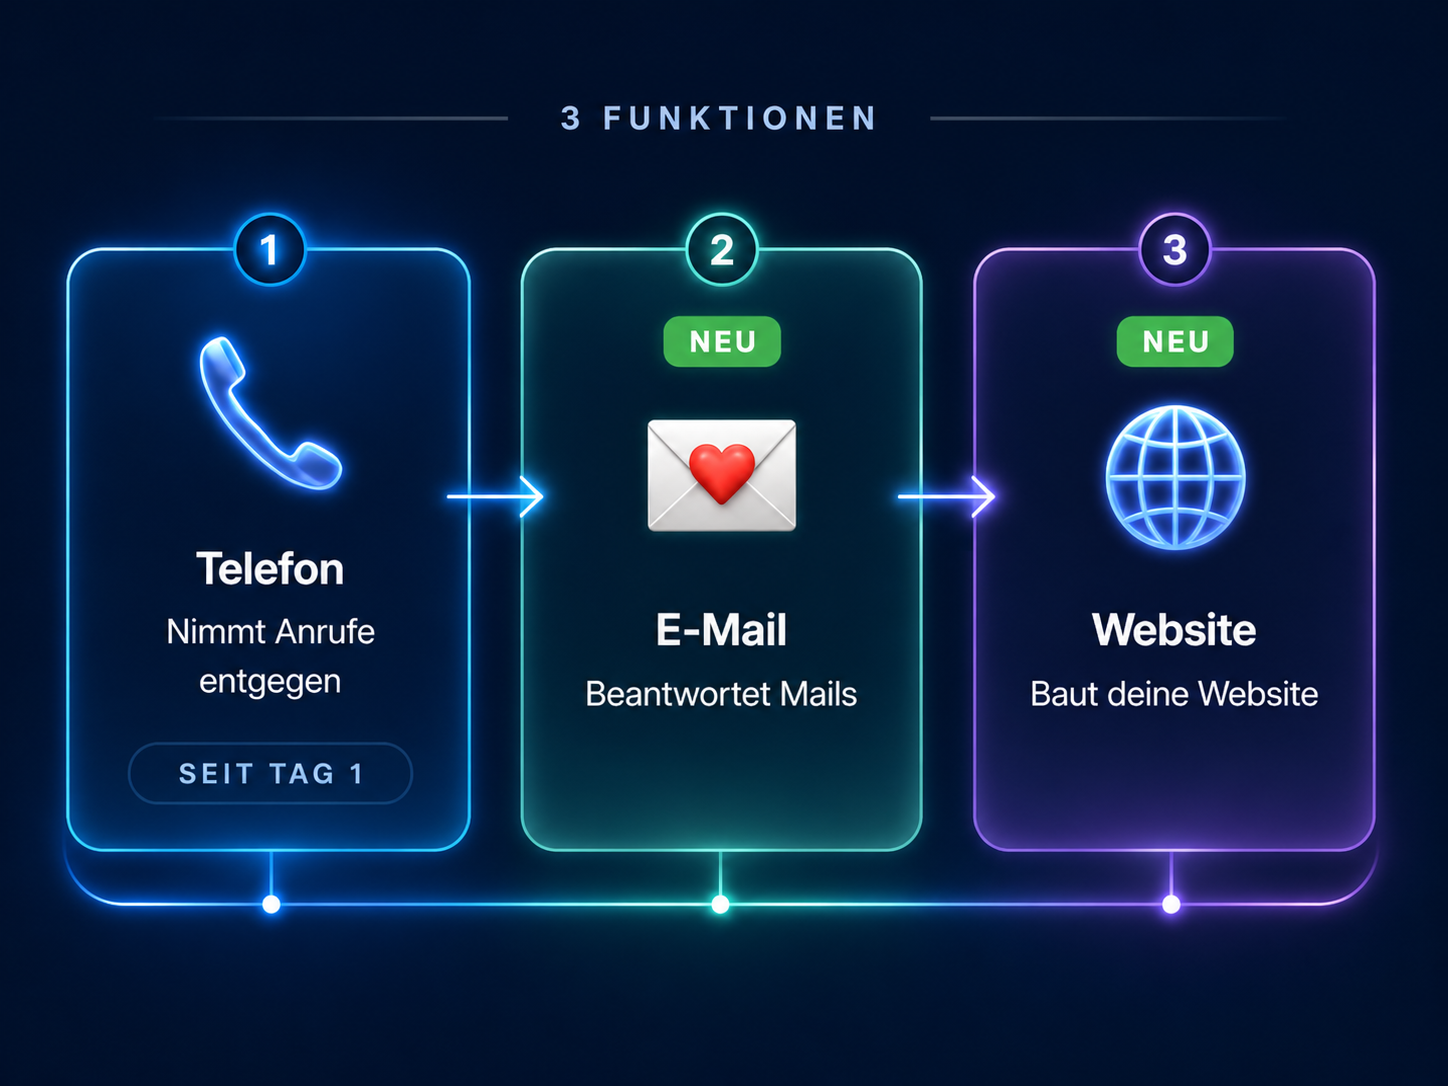
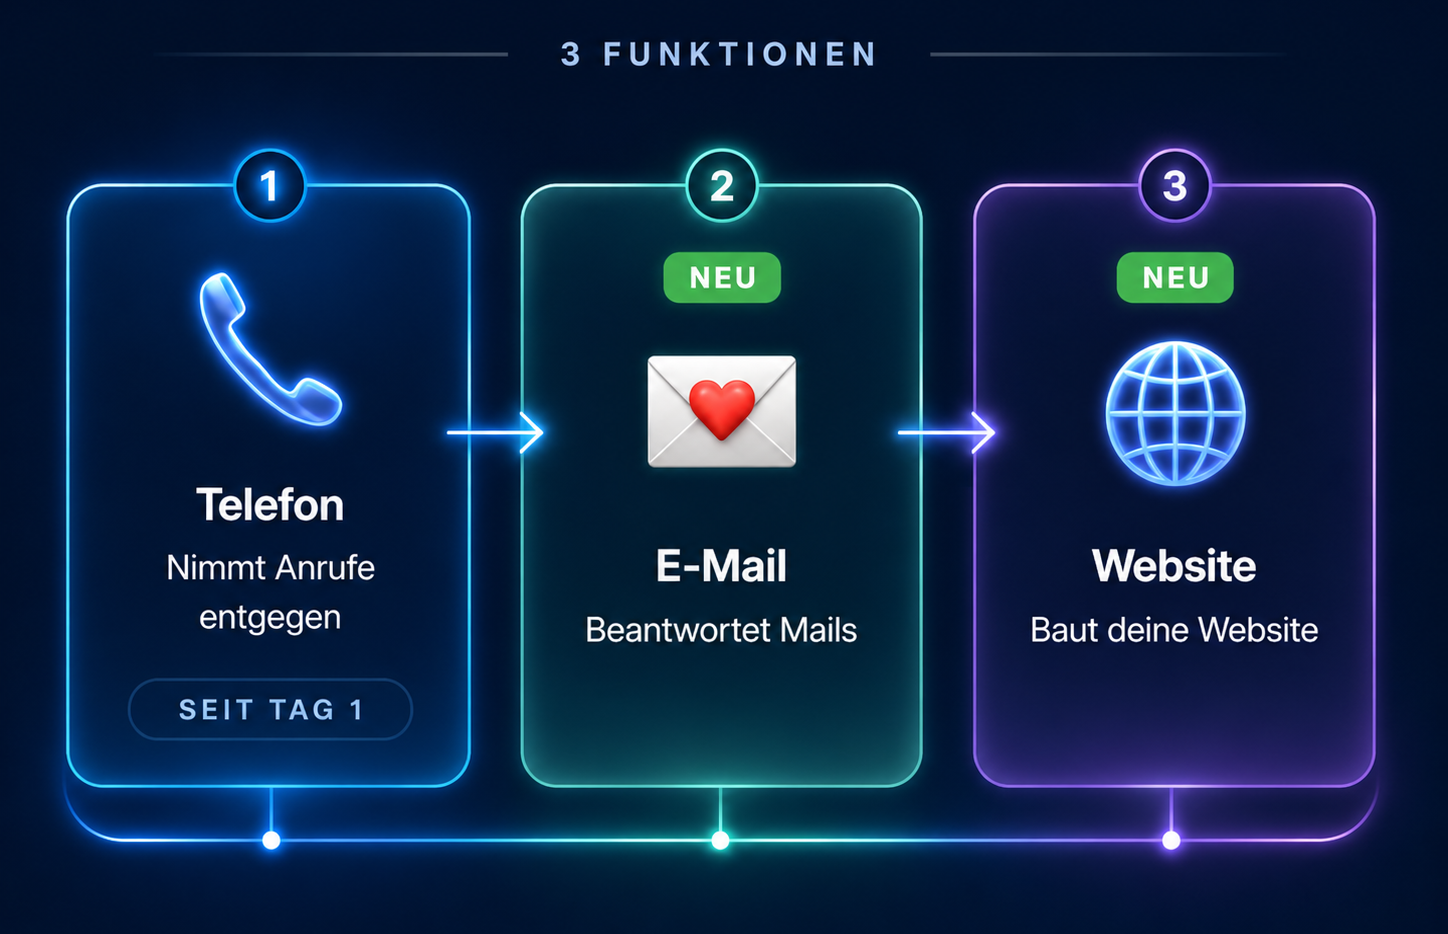
Crop feature cards PNG to remove empty dark margins, fix spacing and transition

diff --git a/newsletter-leads-website-v1.html b/newsletter-leads-website-v1.html
@@ -41,18 +41,84 @@
       <td align="center" class="mobile-pad" style="padding:34px 18px;">
         <table role="presentation" class="container shell" cellspacing="0" cellpadding="0" border="0" style="width:680px; max-width:680px; background:#eaf3fc;">
 
-          <!-- Hero: PNG-Bild -->
+          <!-- HERO -->
           <tr>
-            <td style="padding:0;">
-              <img src="https://raw.githubusercontent.com/jesko-maker/hallopetra-referral/main/02_hero_header.png" width="680" alt="HalloPetra: Petra ist jetzt deine Bürokraft." style="width:100%; height:auto; border-radius:28px 28px 0 0;">
+            <td style="background:#010d24; border-radius:28px 28px 0 0; padding:24px 32px 0 32px; position:relative; overflow:hidden;">
+
+              <!-- Decorative rings + stars (SVG overlay) -->
+              <div style="position:absolute; top:0; right:0; width:60%; height:100%; pointer-events:none; overflow:hidden; z-index:0;">
+                <svg width="100%" height="100%" xmlns="http://www.w3.org/2000/svg" style="position:absolute; top:0; left:0;">
+                  <!-- Glow core behind Petra -->
+                  <circle cx="58%" cy="52%" r="85" fill="rgba(40,90,200,0.10)"/>
+                  <!-- Concentric rings -->
+                  <circle cx="58%" cy="52%" r="110" fill="none" stroke="rgba(100,160,255,0.18)" stroke-width="1.5"/>
+                  <circle cx="58%" cy="52%" r="148" fill="none" stroke="rgba(100,160,255,0.11)" stroke-width="1.5"/>
+                  <circle cx="58%" cy="52%" r="188" fill="none" stroke="rgba(100,160,255,0.06)" stroke-width="1.5"/>
+                  <!-- Stars -->
+                  <circle cx="12%" cy="12%" r="1.5" fill="rgba(180,215,255,0.85)"/>
+                  <circle cx="38%" cy="7%"  r="1"   fill="rgba(180,215,255,0.6)"/>
+                  <circle cx="78%" cy="10%" r="1.5" fill="rgba(180,215,255,0.75)"/>
+                  <circle cx="92%" cy="28%" r="1"   fill="rgba(180,215,255,0.5)"/>
+                  <circle cx="8%"  cy="45%" r="1"   fill="rgba(180,215,255,0.5)"/>
+                  <circle cx="88%" cy="60%" r="1.5" fill="rgba(180,215,255,0.65)"/>
+                  <circle cx="22%" cy="72%" r="1"   fill="rgba(180,215,255,0.45)"/>
+                  <circle cx="68%" cy="82%" r="1"   fill="rgba(180,215,255,0.55)"/>
+                  <circle cx="45%" cy="88%" r="1.5" fill="rgba(180,215,255,0.4)"/>
+                </svg>
+              </div>
+
+              <!-- Logo row -->
+              <table role="presentation" width="100%" cellspacing="0" cellpadding="0" border="0" style="margin-bottom:20px; position:relative; z-index:1;">
+                <tr>
+                  <td>
+                    <table role="presentation" cellspacing="0" cellpadding="0" border="0">
+                      <tr>
+                        <td style="padding-right:8px; vertical-align:middle;">
+                          <img src="https://raw.githubusercontent.com/jesko-maker/hallopetra-referral/main/petra-face-nobg.png" width="26" height="26" alt="Petra" style="width:26px; height:26px; border-radius:50%; display:block;">
+                        </td>
+                        <td style="font-family:Arial, Helvetica, sans-serif; font-size:14px; font-weight:700; color:#ffffff; letter-spacing:0.3px; vertical-align:middle;">HalloPetra</td>
+                      </tr>
+                    </table>
+                  </td>
+                </tr>
+              </table>
+
+              <!-- 2-col: text left, Petra right -->
+              <table role="presentation" width="100%" cellspacing="0" cellpadding="0" border="0" style="position:relative; z-index:1;">
+                <tr>
+                  <td width="54%" valign="middle" style="padding-bottom:20px; padding-right:16px;">
+                    <!-- Badge -->
+                    <table role="presentation" cellspacing="0" cellpadding="0" border="0" style="margin-bottom:16px;">
+                      <tr>
+                        <td style="background:rgba(21,199,103,0.12); border:1px solid rgba(21,199,103,0.38); border-radius:20px; padding:5px 14px; font-family:Arial, Helvetica, sans-serif; font-size:10px; font-weight:800; color:#15c767; letter-spacing:1.8px; text-transform:uppercase; white-space:nowrap;">NEUIGKEIT FÜR DEINEN BETRIEB</td>
+                      </tr>
+                    </table>
+                    <!-- H1 -->
+                    <div style="font-family:Arial, Helvetica, sans-serif; font-size:30px; line-height:37px; font-weight:800; color:#ffffff; margin-bottom:14px;">Petra ist jetzt<br>deine Bürokraft.</div>
+                    <!-- Subtext -->
+                    <p style="font-family:Arial, Helvetica, sans-serif; font-size:14px; line-height:22px; color:rgba(255,255,255,0.65); margin:0;">Von der Telefonassistenz zur vollen Bürokraft. E-Mail und Website gibt es auch ohne Telefon-KI.</p>
+                  </td>
+                  <!-- Petra portrait -->
+                  <td width="46%" valign="bottom" align="right" style="padding-bottom:0; padding-right:0; position:relative; line-height:0; font-size:0; z-index:1;">
+                    <img src="https://raw.githubusercontent.com/jesko-maker/hallopetra-referral/main/petra-hero-portrait.png" width="260" alt="Petra" style="width:260px; height:auto; display:block; margin-left:auto;">
+                    <div style="position:absolute; inset:0; background:radial-gradient(ellipse at 55% 50%, transparent 44%, #010d24 80%); pointer-events:none;"></div>
+                  </td>
+                </tr>
+              </table>
+
             </td>
           </tr>
 
-          <!-- Feature Cards: PNG-Bild -->
+          <!-- FEATURE CARDS -->
           <tr>
-            <td align="center" style="padding:0 28px 34px; background:linear-gradient(180deg,#123b73 0%,#eaf3fc 100%);">
-              <img src="https://raw.githubusercontent.com/jesko-maker/hallopetra-referral/main/03_feature_flow_3_funktionen.png" width="624" alt="3 Funktionen: Telefon, E-Mail, Website." style="width:100%; max-width:624px; height:auto; border-radius:20px;">
+            <td style="background:#010d24; padding:0 28px 20px 28px; line-height:0; font-size:0;">
+              <img src="https://raw.githubusercontent.com/jesko-maker/hallopetra-referral/main/03_feature_flow_3_funktionen.png" width="624" alt="3 Funktionen: Telefon, E-Mail, Website." style="width:100%; max-width:624px; height:auto; display:block; border-radius:16px;">
             </td>
+          </tr>
+
+          <!-- Gradient Bridge -->
+          <tr>
+            <td style="background:linear-gradient(180deg,#010d24 0%,#0a1f45 40%,#eaf3fc 100%); height:40px; padding:0; line-height:0; font-size:0;">&#8203;</td>
           </tr>
 
           <!-- E-Mail Card -->
@@ -127,6 +193,7 @@
                         <td class="section-copy" valign="top">
                           <div class="h2" style="margin-top:0;">Nimm einfach, was du brauchst.</div>
                           <p class="p">Du musst nicht das komplette Paket nehmen. E-Mail und Website gibt es auch ohne Telefon-KI. Schau einfach, was dir heute am meisten hilft.</p>
+                          <p class="p" style="margin-top:14px; padding:12px 14px; background:#f0f7ff; border-radius:10px; border-left:3px solid #19c861; color:#334b68;">&#127381; Übrigens: Wer HalloPetra einem anderen Betrieb empfiehlt, wird dafür belohnt. Einfach auf diese Mail antworten.</p>
                           <p class="p" style="margin-top:18px;">Bis dann,<br><strong>Das HalloPetra Team</strong></p>
                         </td>
                       </tr>
